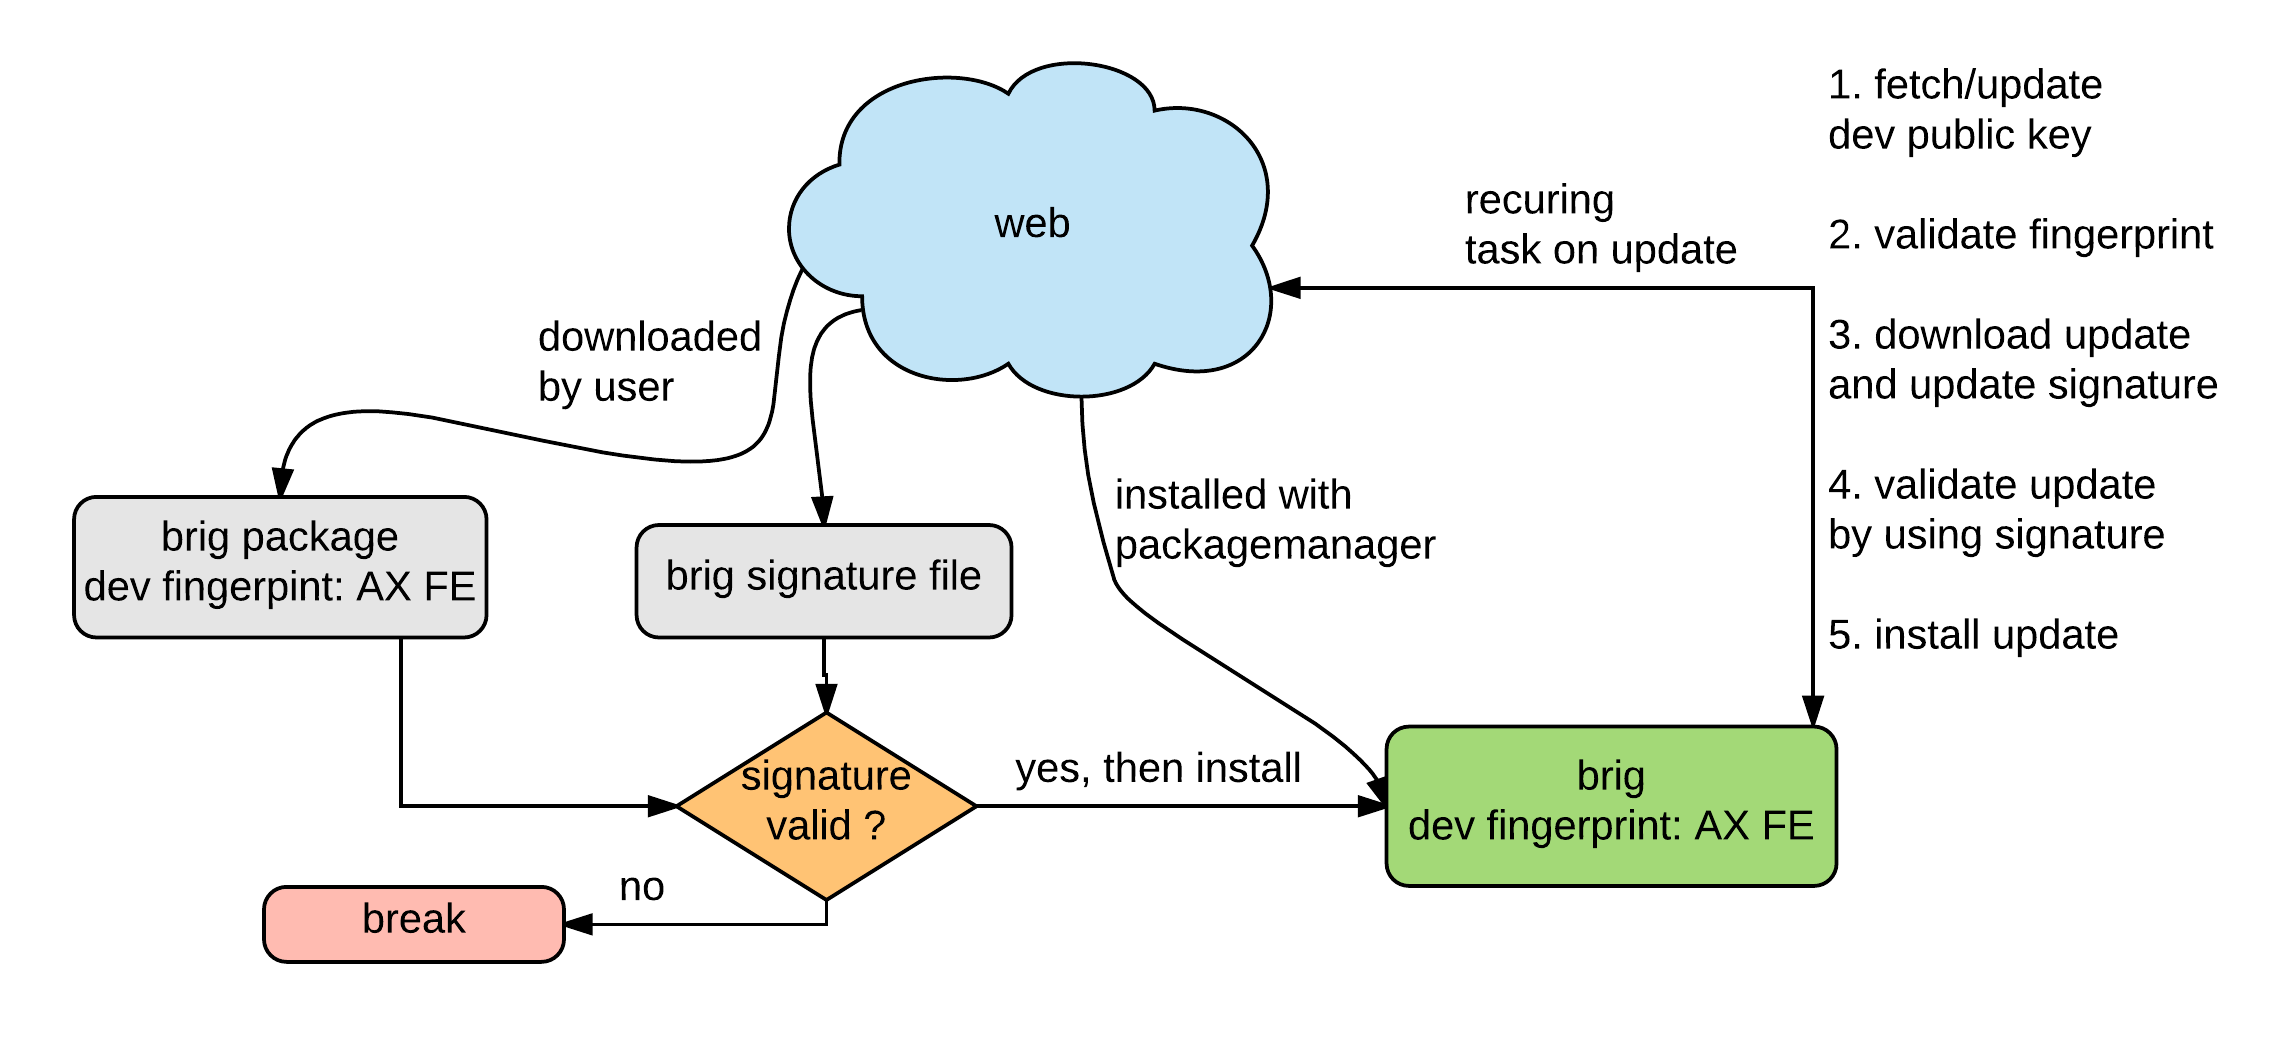
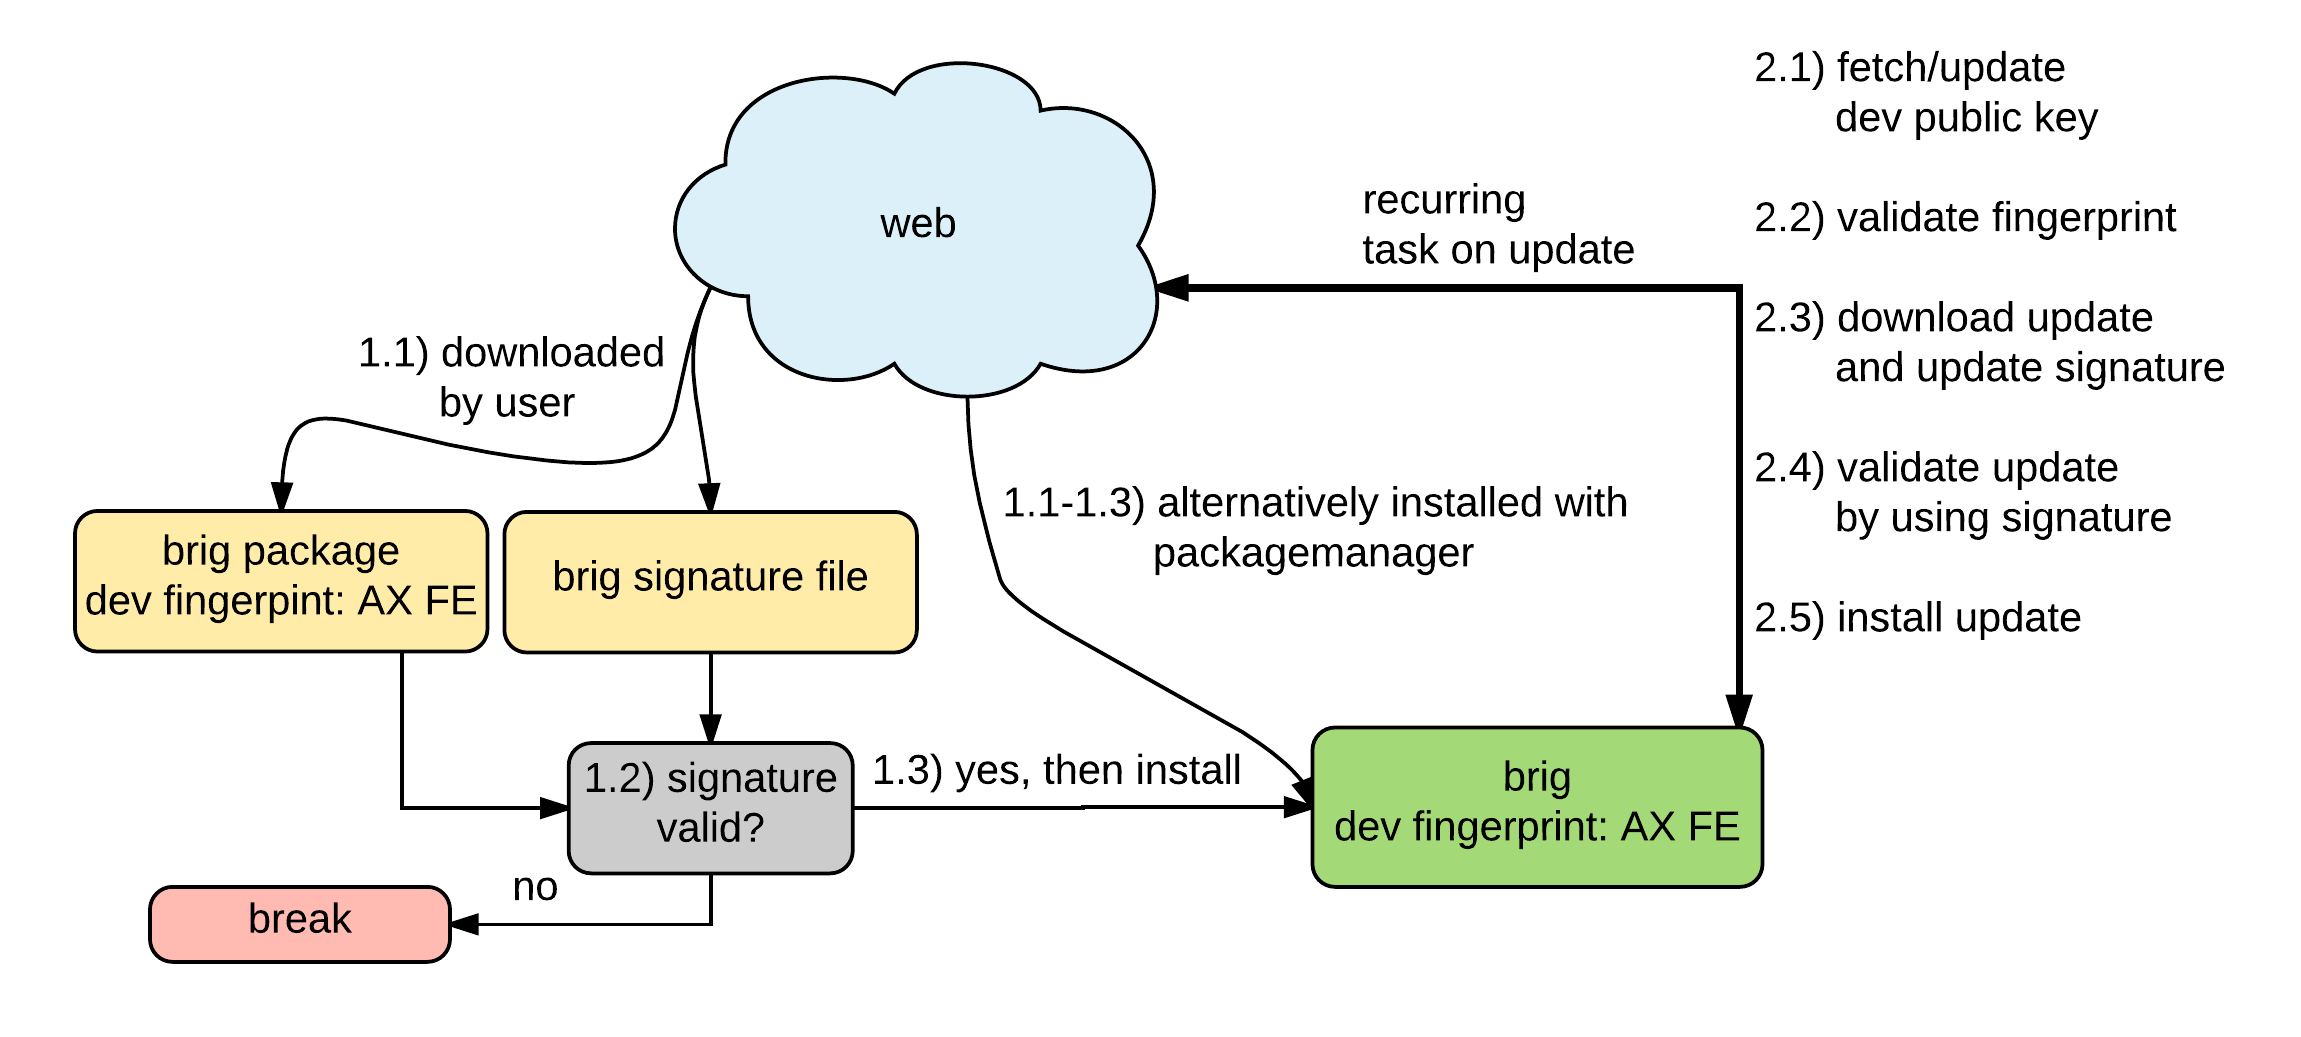
Updateprozess fixed.

diff --git a/security/08-Verbesserungen.md b/security/08-Verbesserungen.md
@@ -1299,16 +1299,17 @@ ohne Paketmanager unterstützen zu können, würde sich eine integrierte
 Updatefunktion besser eignen.
 
 Diese könnte innerhalb von »brig« das oben genannte Verfahren mit der manuellen
-Überprüfung einer Signatur aufgreifen und automatisieren. Bei erfolgreicher
+Überprüfung einer Signatur aufgreifen und automatisieren.
+[@fig:IMG_UPDATEPROCESS] visualisiert den Updateprozess. Bei erfolgreicher
 initialer Validierung der Signatur nach dem ersten Herunterladen der Software
-kann davon ausgegangen werden, dass die Integrität gewährleistet ist und
-Softwareinternas nicht verändert wurden. [@fig:IMG_UPDATEPROCESS] visualisiert den Updateprozess.
+(Schritt 1.1--1.3) kann davon ausgegangen werden, dass die Integrität
+gewährleistet ist und Softwareinternas nicht verändert wurden.
 
 ![Updateprozess zur sicheren Softwareverteilung.](images/updateprocess.png){#fig:IMG_UPDATEPROCESS width=95%}
 
 Auf dieser Basis könnte die Software intern ein Schlüsselmanagement (revoked
 keys, valid keys) verwalten, anhand welchem sie Updates von der
-Entwicklerquelle lädt und automatisiert validiert (Schritt 1--5). Bei
+Entwicklerquelle lädt und automatisiert validiert (Schritt 2.1--2.5). Bei
 erfolgreicher Ausführung/Validierung aller Teilschritte kann die Software ein
 Update durchführen, ansonsten wird der Benutzer gewarnt und ein Update
 verweigert. Dies sollte sich beispielsweise mit einer High--Level
